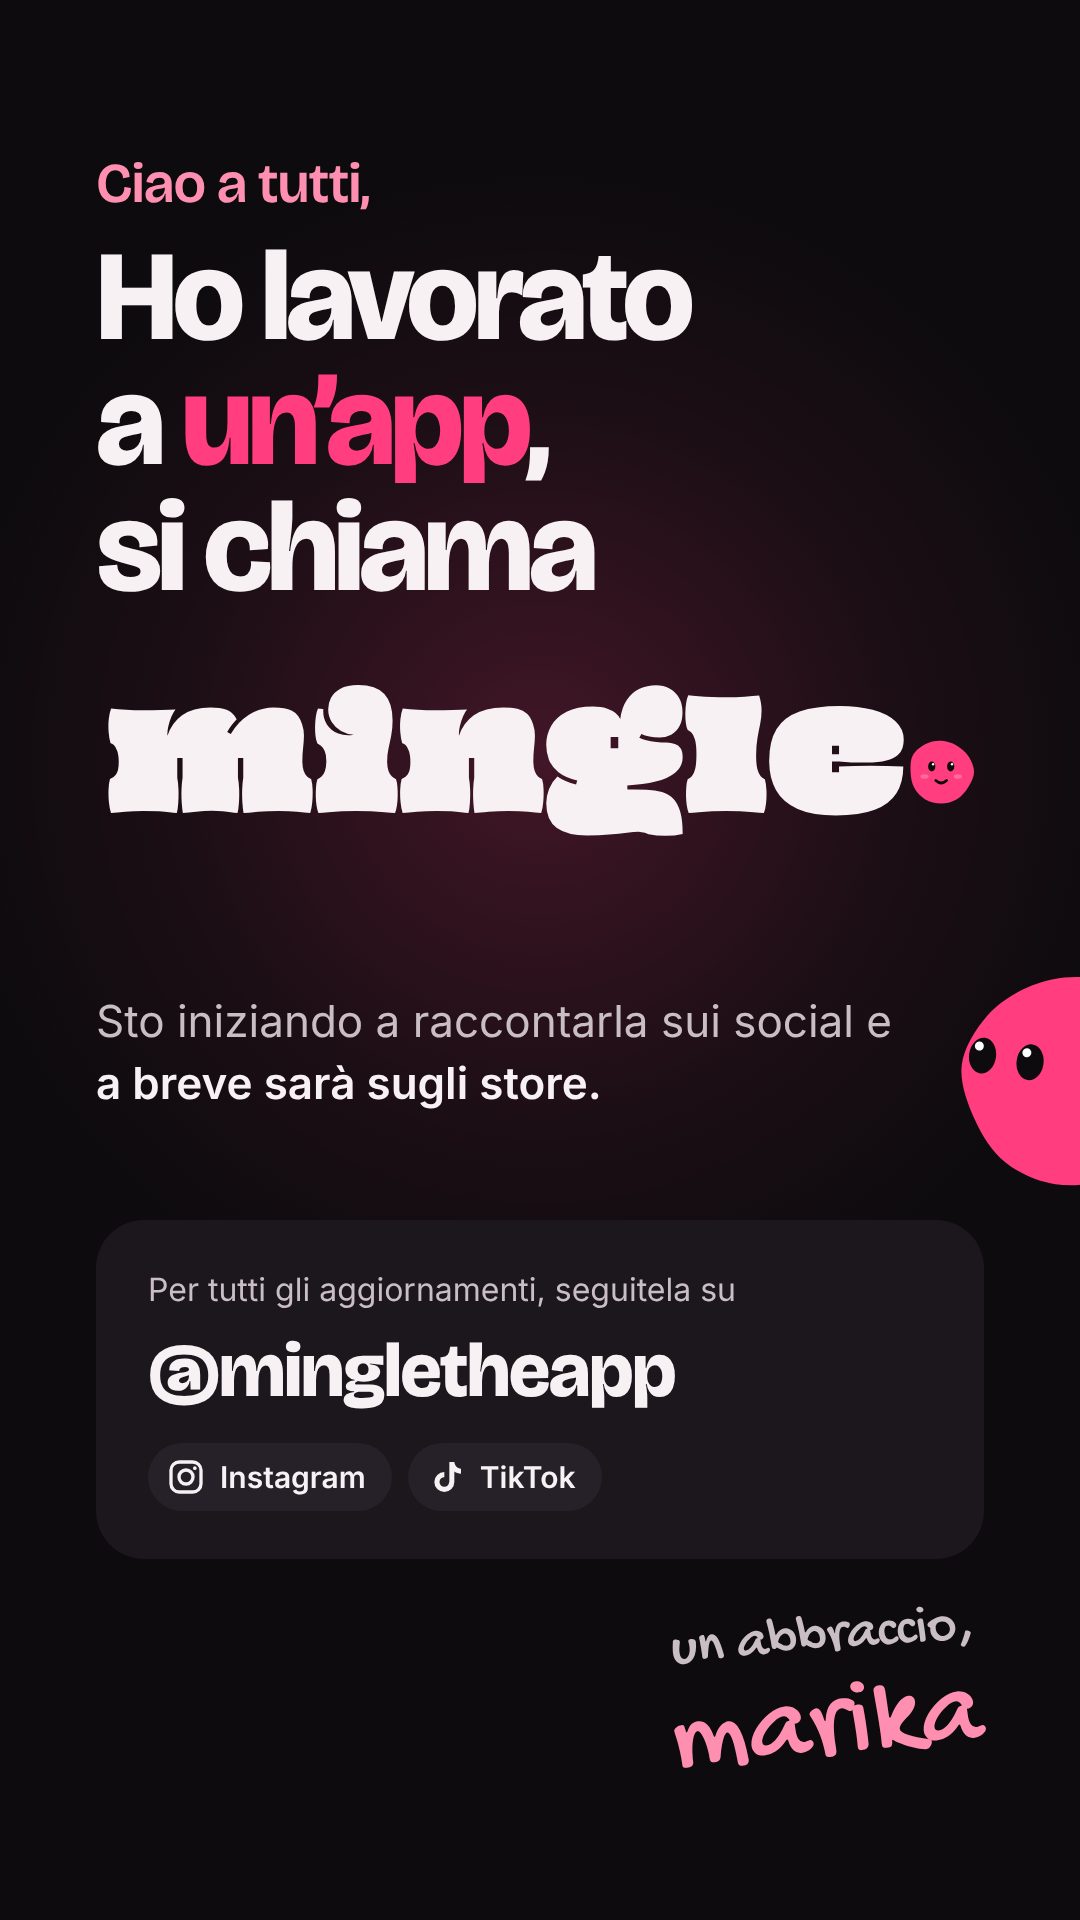
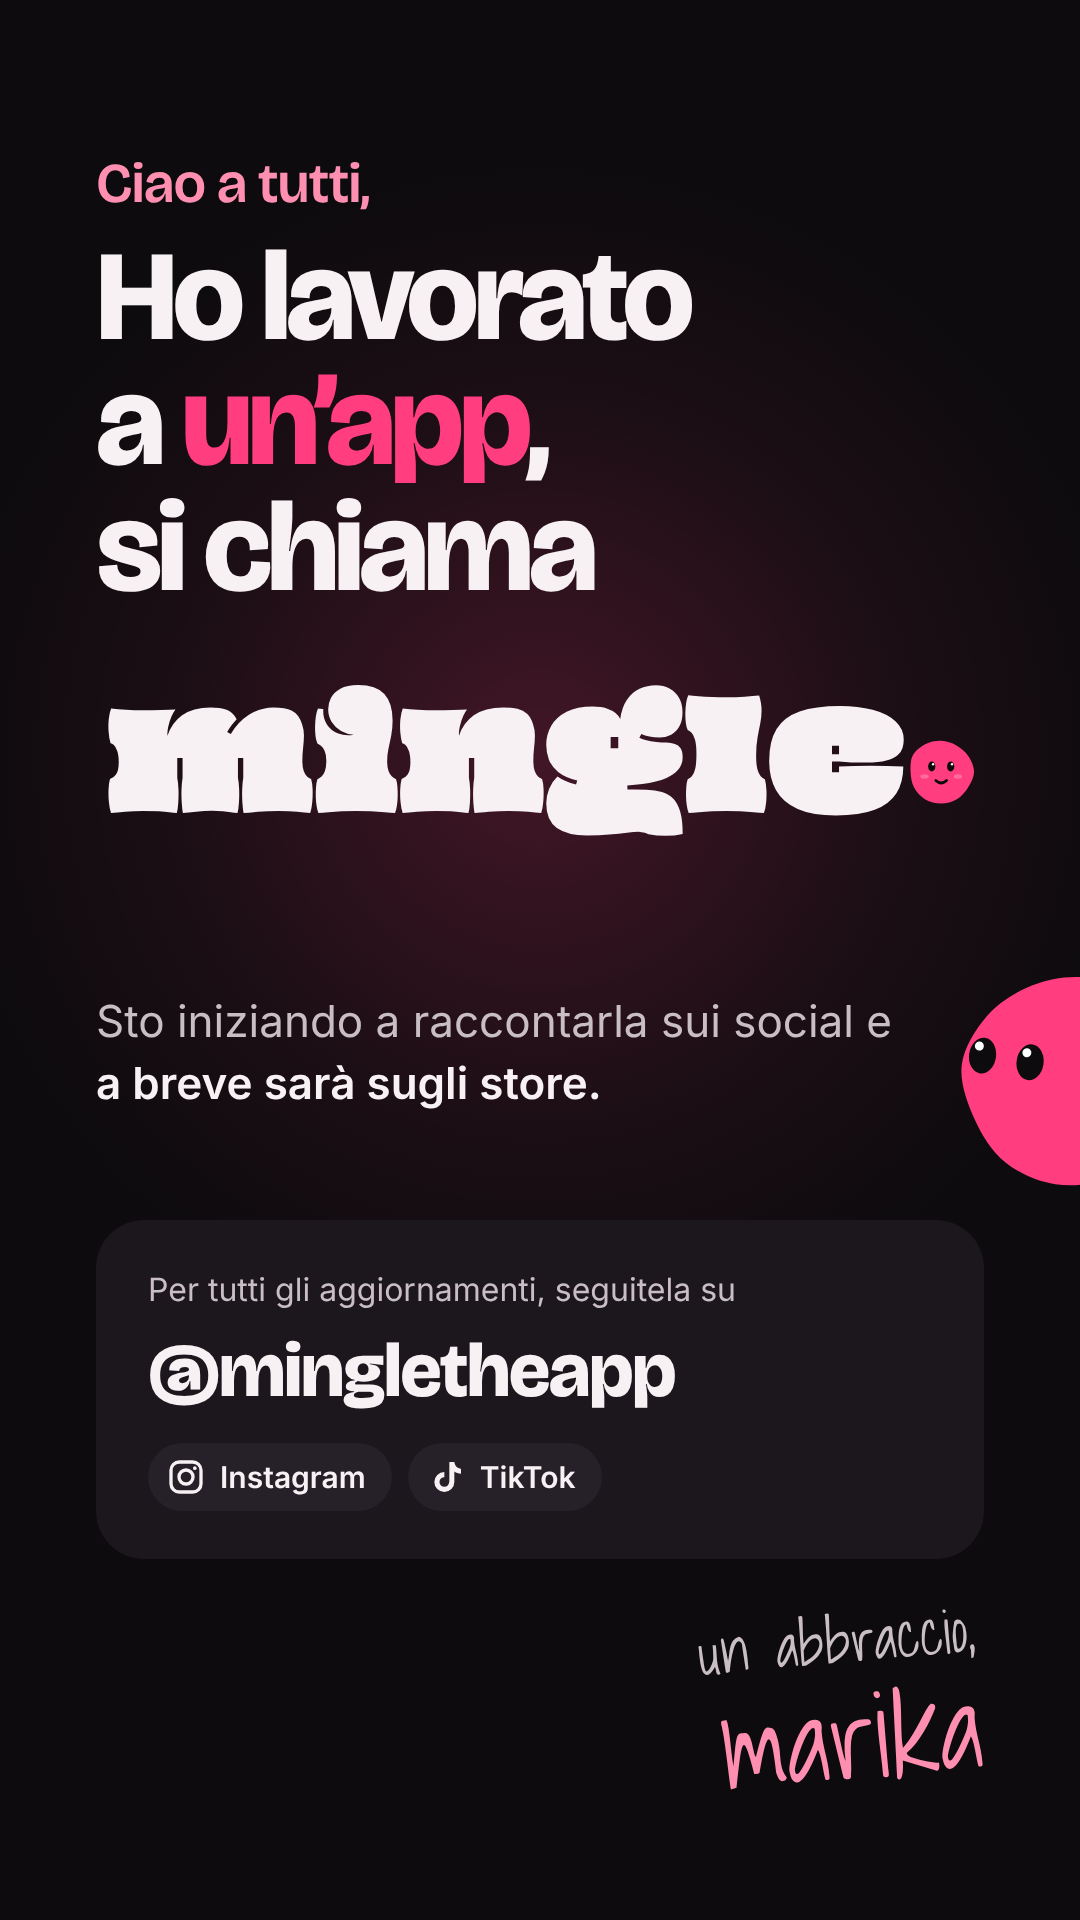
Stato WhatsApp: firma in Shadows Into Light
Claude-Session: https://claude.ai/code/session_01XDMhier1WEJzKbpSLEJqDr

Changed region(s): [[0.6111, 0.8438, 0.9167, 0.9375]]

diff --git a/docs/social/stato-whatsapp.html b/docs/social/stato-whatsapp.html
@@ -1,6 +1,6 @@
 <!doctype html>
 <html><head><meta charset="utf-8">
-<link rel="stylesheet" href="https://fonts.googleapis.com/css2?family=Bricolage+Grotesque:opsz,wght@12..96,400..800&family=Inter:wght@400;500;600&family=DM+Mono:wght@400;500&family=Gochi+Hand&display=swap">
+<link rel="stylesheet" href="https://fonts.googleapis.com/css2?family=Bricolage+Grotesque:opsz,wght@12..96,400..800&family=Inter:wght@400;500;600&family=DM+Mono:wght@400;500&family=Shadows+Into+Light&display=swap">
 <style>
 *{margin:0;padding:0;box-sizing:border-box}
 body{width:1080px;height:1920px;overflow:hidden;background:#0D0B0E;color:#F7F1F4;font-family:Inter,sans-serif;position:relative}
@@ -19,8 +19,8 @@ body{width:1080px;height:1920px;overflow:hidden;background:#0D0B0E;color:#F7F1F4
 .follow .handle{font-family:'Bricolage Grotesque';font-weight:800;font-size:76px;letter-spacing:-2px;margin-top:14px;color:#F7F1F4}
 .follow .apps{display:flex;gap:16px;margin-top:26px}
 .app{display:flex;align-items:center;gap:14px;background:#262028;border-radius:999px;padding:14px 26px 14px 18px;font-size:30px;font-weight:600}
-.sign{position:absolute;right:100px;top:1610px;text-align:right;font-family:'Gochi Hand',cursive;font-size:110px;line-height:1.05;color:#FF8FB1;transform:rotate(-5deg)}
-.sign small{display:block;font-family:'Gochi Hand',cursive;font-size:56px;color:#C9BEC4;margin-bottom:4px}
+.sign{position:absolute;right:100px;top:1610px;text-align:right;font-family:'Shadows Into Light',cursive;font-size:116px;line-height:1.05;color:#FF8FB1;transform:rotate(-5deg)}
+.sign small{display:block;font-family:'Shadows Into Light',cursive;font-size:60px;color:#C9BEC4;margin-bottom:4px}
 .peek{position:absolute;right:-140px;top:930px;width:300px;transform:scaleX(-1) rotate(-8deg)}
 </style></head><body>
 <div class="glow"></div>
